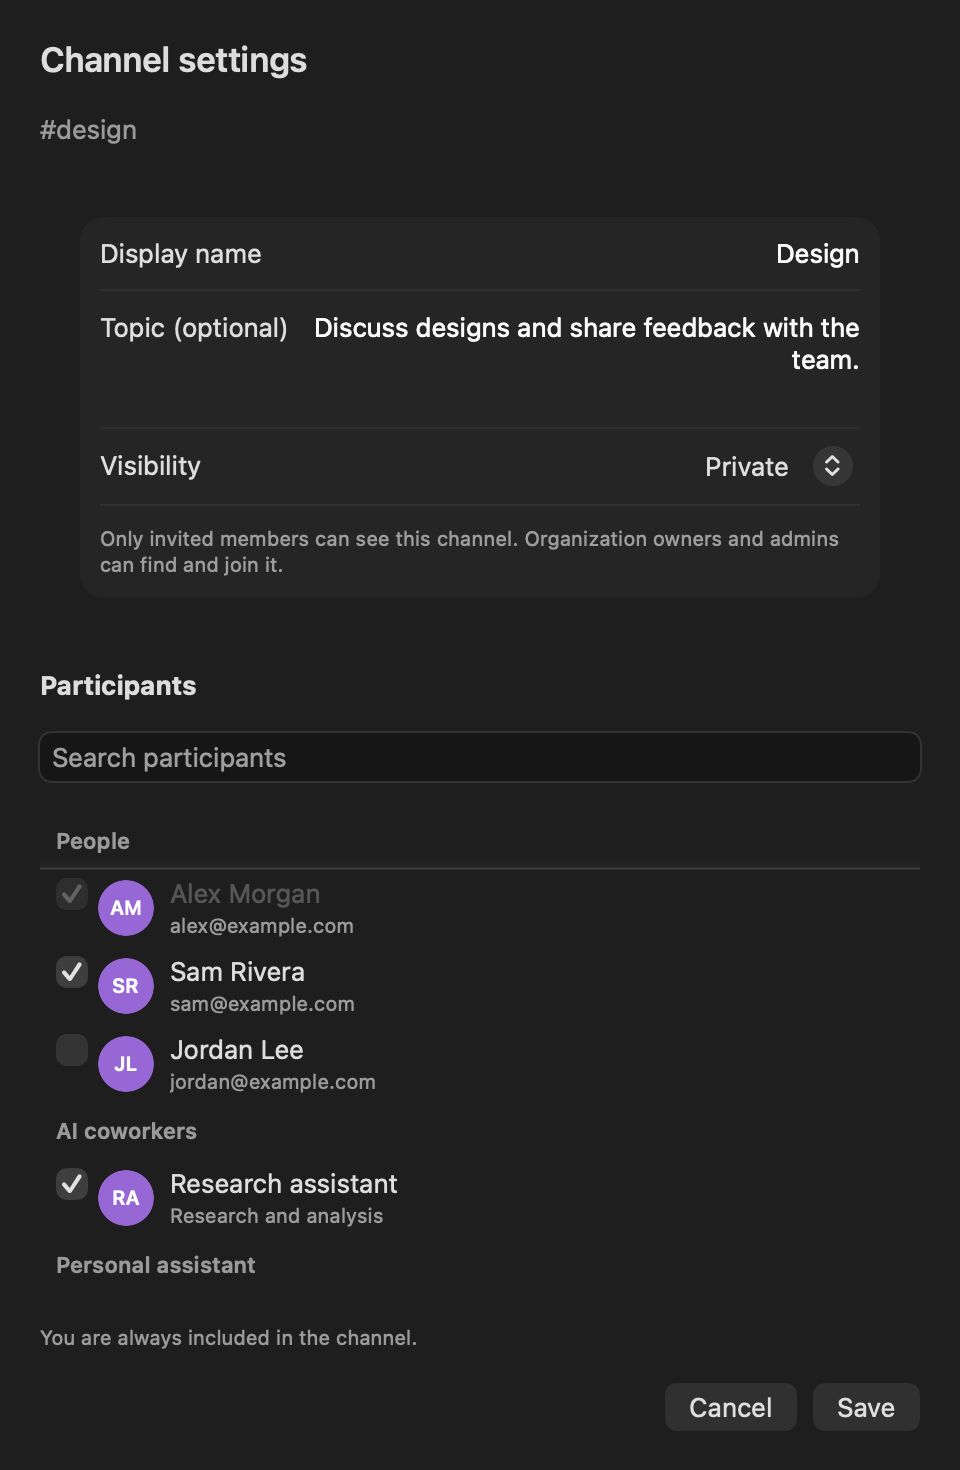
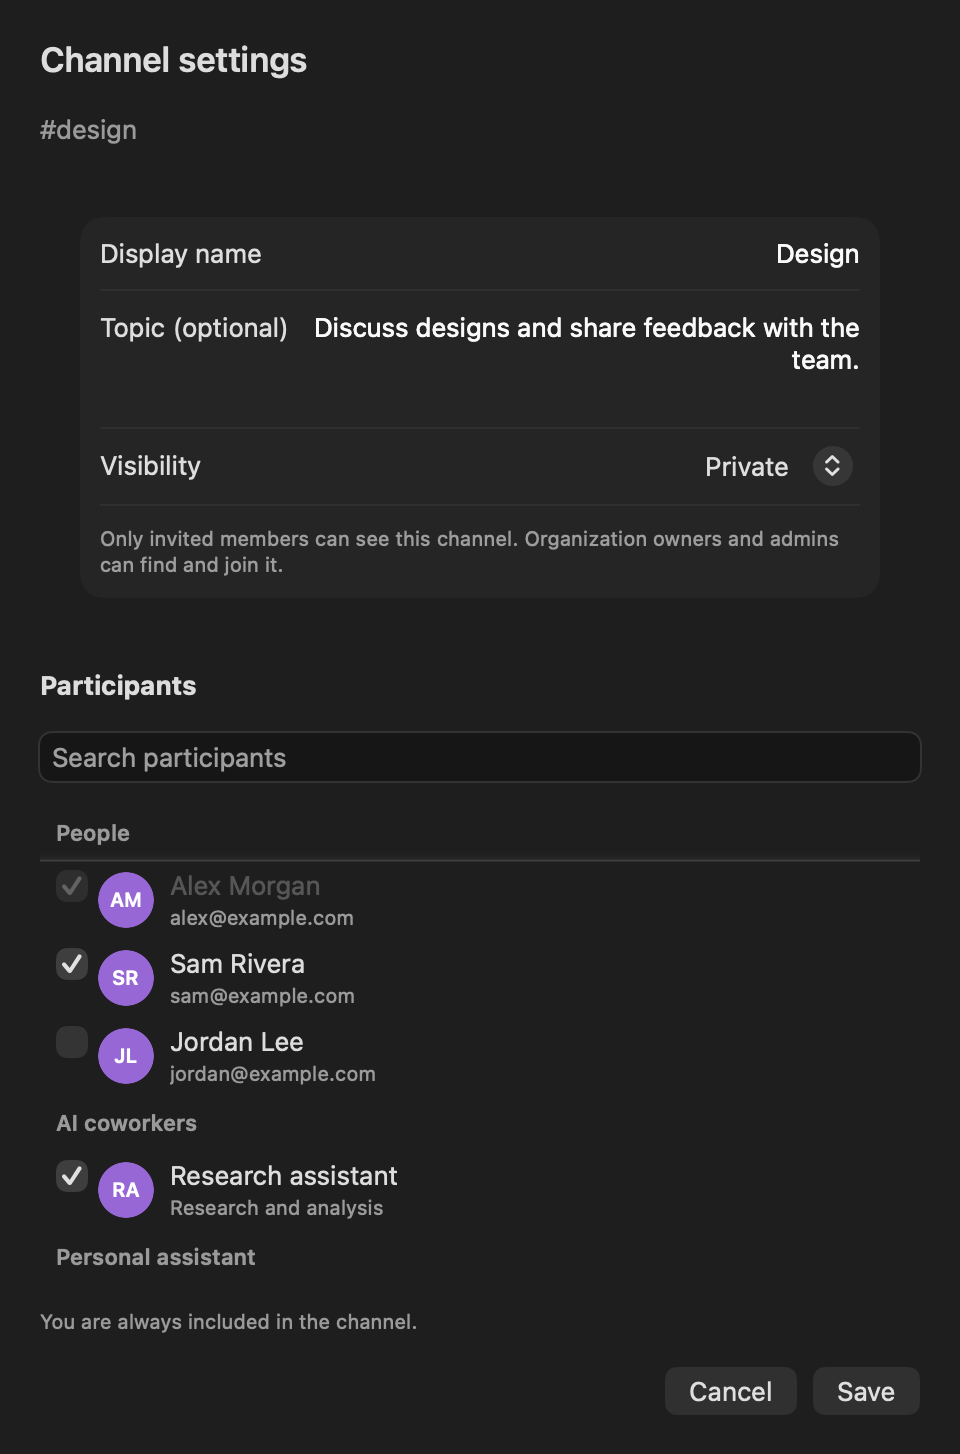
fix(apple): review polish for channel settings sheet
Explicit unavailable state when the edited room leaves the list, explicit
spacing container in RecipientSelectionList, sidebar composition buttons
disable during a channel update, isOwnerOrAdmin naming throughout, and
PARITY slice 32 marked In review.

diff --git a/apps/apple/Packages/SokosumiChat/Sources/SokosumiChat/ChatService+ChannelCreation.swift b/apps/apple/Packages/SokosumiChat/Sources/SokosumiChat/ChatService+ChannelCreation.swift
@@ -5,18 +5,18 @@ public extension ChatService {
   func channelRoster(client: Client, organizationId: String, organizationSlug: String) async throws -> ChannelRoster {
     async let recipients = chatRecipients(client: client, organizationId: organizationId, organizationSlug: organizationSlug)
     let response = try await client.getUsersIdOrganizationsOrganizationIdMember(.init(path: .init(id: "me", organizationId: organizationId)))
-    let external: Bool
+    let isOwnerOrAdmin: Bool
     switch response {
     case let .ok(value):
       let role = try value.body.json.data.role
-      external = role == .owner || role == .admin
+      isOwnerOrAdmin = role == .owner || role == .admin
     case let .unauthorized(value): throw try ChatServiceError.unauthorized(value.body.json.message)
     case let .forbidden(value): throw try ChatServiceError.unprocessable(statusCode: 403, message: value.body.json.message)
-    case .notFound: external = false
+    case .notFound: isOwnerOrAdmin = false
     case let .internalServerError(value): throw try ChatServiceError.unprocessable(statusCode: 500, message: value.body.json.message)
     case let .undocumented(statusCode, payload): throw await unprocessableError(statusCode: statusCode, payload: payload)
     }
-    return try await .init(recipients: recipients, isOwnerOrAdmin: external)
+    return try await .init(recipients: recipients, isOwnerOrAdmin: isOwnerOrAdmin)
   }
 
   func channelSlugIsAvailable(client: Client, slug: String, organizationSlug: String) async throws -> Bool {

diff --git a/apps/apple/Sokosumi/Chat/Sidebar/ConversationSidebarView.swift b/apps/apple/Sokosumi/Chat/Sidebar/ConversationSidebarView.swift
@@ -85,14 +85,14 @@ struct ConversationSidebarView: View {
           Button("New chat", systemImage: "square.and.pencil") {
             startDirect = .init(id: workspaces.compositionContext, hasOrganization: workspaces.selection?.workspace.organizationId != nil)
           }
-          .disabled(workspaces.phase != .ready || workspaces.roomsLoading || workspaces.openingDirect != nil || workspaces.creatingChannel || workspaces.joiningChannel)
+          .disabled(workspaces.phase != .ready || workspaces.roomsLoading || workspaces.openingDirect != nil || workspaces.creatingChannel || workspaces.joiningChannel || workspaces.updatingChannel)
           .help("New chat")
         }
         ToolbarItem {
           Button("Create channel", systemImage: "number") {
             createChannel = .init(id: workspaces.compositionContext, hasOrganization: true)
           }
-          .disabled(workspaces.phase != .ready || workspaces.selection?.workspace.organizationId == nil || workspaces.creatingChannel || workspaces.joiningChannel || workspaces.openingDirect != nil)
+          .disabled(workspaces.phase != .ready || workspaces.selection?.workspace.organizationId == nil || workspaces.creatingChannel || workspaces.joiningChannel || workspaces.updatingChannel || workspaces.openingDirect != nil)
           .help("Create channel")
         }
         ToolbarItem {

diff --git a/apps/apple/Sokosumi/Shared/RecipientSelectionList.swift b/apps/apple/Sokosumi/Shared/RecipientSelectionList.swift
@@ -10,7 +10,14 @@ struct RecipientSelectionList: View {
   @Binding var selection: Set<DirectRecipient>
 
   var body: some View {
-    TextField("Search participants", text: $query)
+    VStack(alignment: .leading, spacing: 12) {
+      TextField("Search participants", text: $query)
+      list
+      Text("You are always included in the channel.").font(.caption).foregroundStyle(.secondary)
+    }
+  }
+
+  private var list: some View {
     List {
       ForEach(sections) { section in
         Section(sectionTitle(section.id)) {
@@ -45,7 +52,6 @@ struct RecipientSelectionList: View {
     }
     .listStyle(.plain)
     .frame(height: 240)
-    Text("You are always included in the channel.").font(.caption).foregroundStyle(.secondary)
   }
 
   private func sectionTitle(_ kind: ChatRecipientSection.Kind) -> LocalizedStringKey {

diff --git a/apps/apple/Sokosumi/Chat/Details/EditChannelSheet.swift b/apps/apple/Sokosumi/Chat/Details/EditChannelSheet.swift
@@ -24,6 +24,14 @@ struct EditChannelSheet: ViewModifier {
           }, save: {
             try await workspaces.updateChannel($0, roomId: room.id, permissions: $1, context: presentation.id, auth: auth)
           })
+        } else {
+          // Kicked or archived while the sheet was open: never a blank modal.
+          VStack(spacing: 16) {
+            ContentUnavailableView("This channel is no longer available.", systemImage: "number")
+            Button("Close") { self.presentation = nil }.keyboardShortcut(.cancelAction)
+          }
+          .padding(20)
+          .frame(width: 480)
         }
       }
       .onChange(of: workspaces.compositionContext) { _, _ in

diff --git a/apps/apple/PARITY.md b/apps/apple/PARITY.md
@@ -107,7 +107,7 @@ Source links are relative to this file. The shared web service boundary is [chat
 | 29 | Create channel: name/slug availability, topic, discoverability, participants, step validation and errors. | 03, 06 | Done — [#4675](https://github.com/masumi-network/sokosumi/pull/4675), final CI green | [create-channel-dialog.tsx](<../web/src/app/(app)/chat/components/create-channel-dialog.tsx>), [create-channel-wizard.ts](<../web/src/app/(app)/chat/components/create-channel-wizard.ts>), [actions.ts](<../web/src/app/(app)/chat/actions.ts>) |
 | 30 | Browse discoverable channels, search/list/join and open joined room; respect workspace and visibility rules. | 07, 29 | Done — [#4677](https://github.com/masumi-network/sokosumi/pull/4677) | [browse-channels-dialog.tsx](<../web/src/app/(app)/chat/components/browse-channels-dialog.tsx>), [actions.ts](<../web/src/app/(app)/chat/actions.ts>) |
 | 31 | Room details/roster: members, coworker/bot/guest roles, profile details, topic, visibility, eligible controls and direct-message action. | 13, 27 | Done — [#4686](https://github.com/masumi-network/sokosumi/pull/4686), final CI green | [room-roster-panel.tsx](<../web/src/app/(app)/chat/components/room-roster-panel.tsx>), [room-header-chrome.tsx](<../web/src/app/(app)/chat/components/room-header-chrome.tsx>), [chat-participant-hover-card.tsx](<../web/src/app/(app)/chat/components/chat-participant-hover-card.tsx>) |
-| 32 | Edit channel name/topic/visibility and membership; permission/seat restrictions and errors remain server-authoritative. | 29, 31 | In progress — [#4699](https://github.com/masumi-network/sokosumi/pull/4699) | [edit-channel-dialog.tsx](<../web/src/app/(app)/chat/components/edit-channel-dialog.tsx>), [participant-checkboxes.tsx](<../web/src/app/(app)/chat/components/participant-checkboxes.tsx>), [actions.ts](<../web/src/app/(app)/chat/actions.ts>) |
+| 32 | Edit channel name/topic/visibility and membership; permission/seat restrictions and errors remain server-authoritative. | 29, 31 | In review — [#4699](https://github.com/masumi-network/sokosumi/pull/4699) | [edit-channel-dialog.tsx](<../web/src/app/(app)/chat/components/edit-channel-dialog.tsx>), [participant-checkboxes.tsx](<../web/src/app/(app)/chat/components/participant-checkboxes.tsx>), [actions.ts](<../web/src/app/(app)/chat/actions.ts>) |
 | 33 | Leave/archive with confirmation; archived list, restore and delete with role/ownership restrictions. | 26, 32 | Todo | [edit-channel-dialog.tsx](<../web/src/app/(app)/chat/components/edit-channel-dialog.tsx>), [organization-chat-list.client.tsx](<../web/src/components/chat/organization-chat-list.client.tsx>), [actions.ts](<../web/src/app/(app)/chat/actions.ts>) |
 | 34 | External chat invitations: pending inbox/sidebar, accept/decline, invite detail/deep link; guest-link join with sign-in/permission states. | 02, 07, 25 | Todo | [chat-room-invitation-card.tsx](<../web/src/app/(app)/chat/invites/[id]/components/chat-room-invitation-card.tsx>), [chat-join-card.tsx](<../web/src/app/(app)/chat/join/[token]/components/chat-join-card.tsx>), [organization-chat-list.client.tsx](<../web/src/components/chat/organization-chat-list.client.tsx>) |
 | 35 | Manage room guest access: invite by email, list/revoke invitations, create guest links with expiry and max-uses options, show link usage/expiry, copy/revoke links, remove guest, role/visibility restrictions. | 31, 34 | Todo | [guest-invite-section.tsx](<../web/src/app/(app)/chat/components/guest-invite-section.tsx>), [room-roster-panel.tsx](<../web/src/app/(app)/chat/components/room-roster-panel.tsx>), [actions.ts](<../web/src/app/(app)/chat/actions.ts>) |
@@ -950,10 +950,12 @@ Implementation: portable `RoomRoster` maps and sorts the existing room members, 
 
 Verification: macOS build and full app tests pass, including inspector regression coverage and native layout captures at 280-point width in light/dark. All five package suites pass (Chat 431, Workspace 84, Auth 35, Realtime 27, CoreAPI 1). Strict SwiftLint and SwiftFormat pass. Visually inspected [light](docs/screenshots/room-details-light.png) and [dark](docs/screenshots/room-details-dark.png): long topic wraps and member rows fit without clipping. The task-owned app test host exited. The shared Workspace package builds for iOS 17 Simulator. Authenticated Message actions, physical keyboard/VoiceOver, clipboard feedback, and large Dynamic Type remain unverified; the render fixture uses an unauthenticated coordinator and does not exercise Message buttons. Existing coordinator tests cover direct creation/navigation guards. No production messages or memberships were changed.
 
-### Slice 32 — channel settings and membership editing (in progress)
+### Slice 32 — channel settings and membership editing (in review)
 
 Web `edit-channel-dialog.tsx` resets the form from the room, shows name/topic/visibility only to organization owners/admins and the participant picker to any host member; guests (`access == "guest"`) are excluded from `memberUserIds` and survive the PATCH server-side; the current user is always included; the roster lists are sent on every save and the settings fields only when the caller may manage them. `rooms-client.tsx` gates editing: Directs, guests and matched channels cannot edit; only owner/admin can change settings; the role comes from the organization membership, never from room creator. Core `PATCH /v1/chats/rooms/{id}` (`UpdateChatRoomRequest`) rejects slug changes, enforces the same split, blocks leaving `external` while guests/invites/links exist, and validates ids; there is no seat check on this endpoint. Web opens the dialog from the room header title and from the sidebar row menu.
 
 Implementation: `ChannelEditPermissions` and `ChannelEditDraft` (portable, `SokosumiChat`) mirror the web gates and seeding; `ChannelEditing` reuses the creation model's load/single-flight/error pattern and `ChannelRoster` (renamed `isOwnerOrAdmin`, previously `canCreateExternal`) so the role request is shared with creation. `ChannelEditDraft.updateRequest` builds the roster-or-settings body; `ChatService.updateChannel` selects the existing Core PATCH operation via `scripts/update-core-api.py` (no contract change). `WorkspaceState.updateChannel` keeps the composition-context/cancellation guards, is mutually exclusive with create/join/direct, and replaces the room DTO in place without navigating. Native `EditChannelView` (sheet) reuses the extracted `RecipientSelectionList` shared with channel creation; entry points are the sidebar row context menu and the Members inspector's Channel section, both gated by `ChannelEditPermissions.isEditable`. Leave/archive stay slice 33; guest invitations stay slice 35. Explicit preferences retained: no welcome screen, toolbar New chat unchanged.
 
 Verification: `swift test` for all five packages passes (Chat 436, Workspace 85, Auth 35, Realtime 27, CoreAPI 1) including new `ChannelEditingTests`, a PATCH body/403 service test and a coordinator test proving in-place reconciliation without navigation. macOS build and full app tests pass (79 tests) including light/dark render fixtures for manager and member variants: [manager light](docs/screenshots/edit-channel-manager-light.png), [manager dark](docs/screenshots/edit-channel-manager-dark.png), [member light](docs/screenshots/edit-channel-member-light.png), [member dark](docs/screenshots/edit-channel-member-dark.png); inspected for clipping, alignment and the locked current-user row. Strict SwiftLint and SwiftFormat pass. The shared Workspace package builds for iOS 17. Captures were produced by a one-off run with entitlements stripped because the sandboxed test host's temporary directory is not readable from the agent shell; the committed test writes to the host temporary directory like the existing fixtures. Task-owned test hosts exited. Authenticated save against Core, realtime room-update propagation after a save, keyboard/VoiceOver and large Dynamic Type remain unverified.
+
+Review follow-up: the edit sheet shows an explicit unavailable state with Close when the room leaves the list while open; `RecipientSelectionList` owns its 12-point vertical spacing; the sidebar New chat / Create channel buttons also disable while a channel update is in flight; the role flag in `channelRoster` is named `isOwnerOrAdmin` throughout.
